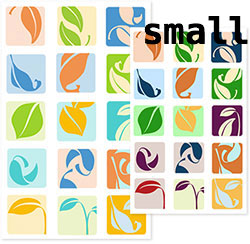
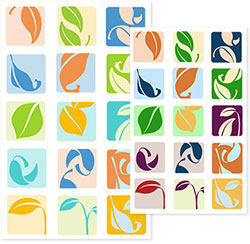
edits to image usages, clear headlines

Changed region(s): [[0.56, 0.0574, 1.0, 0.2008]]

diff --git a/static/sass/patterns/_media.scss b/static/sass/patterns/_media.scss
@@ -33,3 +33,14 @@ h6 {
   font-size: size('caption');
   font-style: italic;
 }
+
+.figure,
+.add-space {
+  margin-bottom: size('gutter');
+  margin-top: size('gutter');
+
+  @include above('medium-page') {
+    margin-bottom: size('spacer');
+    margin-top: size('spacer');
+  }
+}

diff --git a/static/sass/initial/_type.scss b/static/sass/initial/_type.scss
@@ -52,6 +52,16 @@ h3 {
   margin-top: 1.5rem;
 }
 
+h1,
+h2,
+h3,
+h4,
+h5,
+h6 {
+  [data-module='rst-body'] & {
+    clear: both;
+  }
+}
 
 // Links
 // -----
@@ -95,4 +105,3 @@ p {
     margin-bottom: size('gutter');
   }
 }
-

diff --git a/content/work/coachhub.rst b/content/work/coachhub.rst
@@ -188,26 +188,9 @@ are bright, cheerful, and hopeful.
    movement. New life, change, and hope: turning over a new leaf.
 
 
-
 .. raw:: html
 
-   <img src="/static/images/work/coachhub/avatars-small.jpg"
-     srcset="/static/images/work/coachhub/avatars-small.jpg 250w,
-             /static/images/work/coachhub/avatars-small@2x.jpg 600w,
-             /static/images/work/coachhub/avatars-large.jpg 700w,
-             /static/images/work/coachhub/avatars-large@2x.jpg 972w"
-      sizes="(max-width: 608px) 100vw, 25vw"
-      class="extend-left"
-      alt="leaf avatar collage">
-
-
-.. raw:: html
-
-   <picture class="extend-left">
-
-      <source media="(min-width: 613px)"
-              srcset="/static/images/work/coachhub/avatars-large.jpg,
-                      /static/images/work/coachhub/avatars-large@2x.jpg 2x">
+   <picture class="extend-left" alt="leaf avatar collage">
 
       <source srcset="/static/images/work/coachhub/avatars-small.jpg,
                       /static/images/work/coachhub/avatars-small@2x.jpg 2x">
